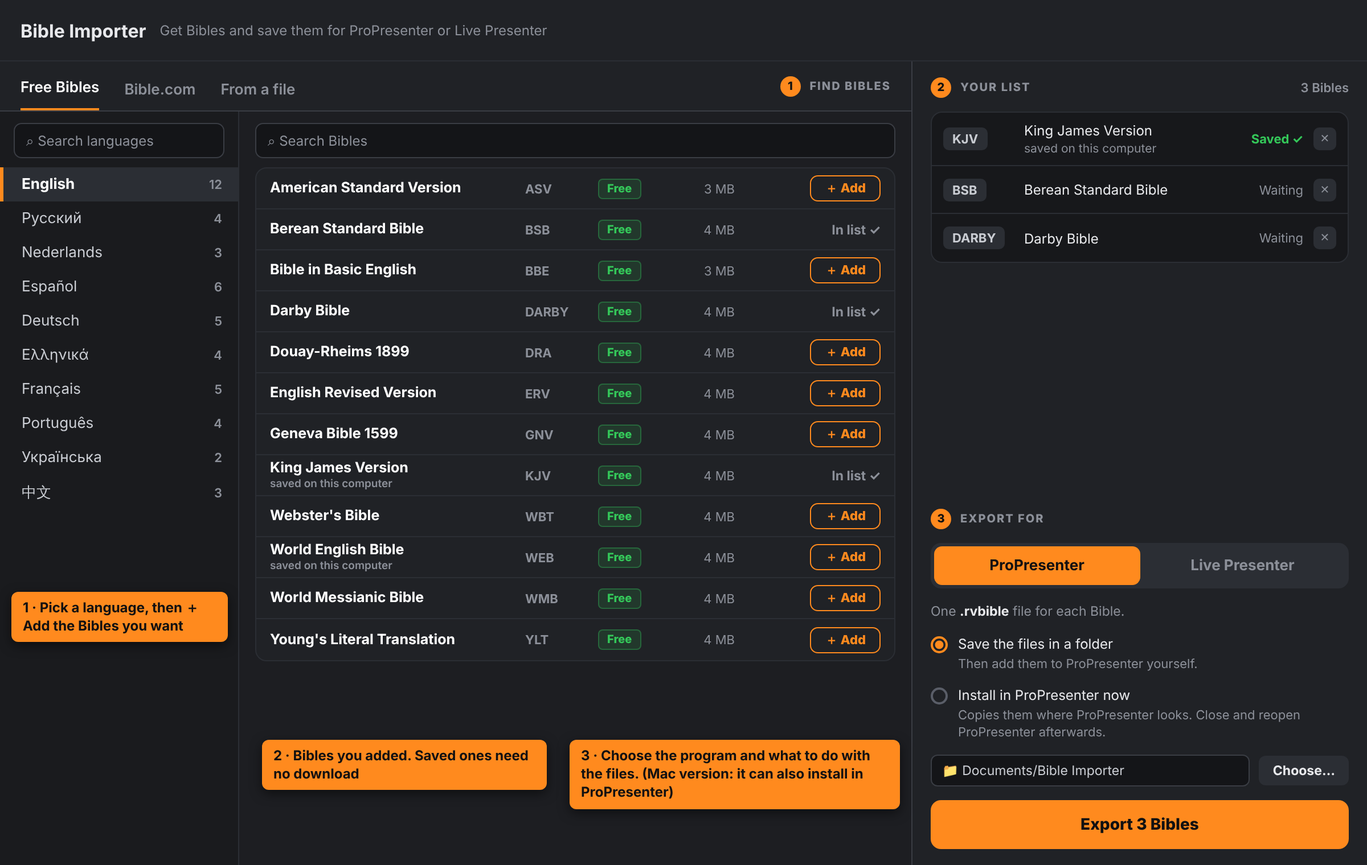
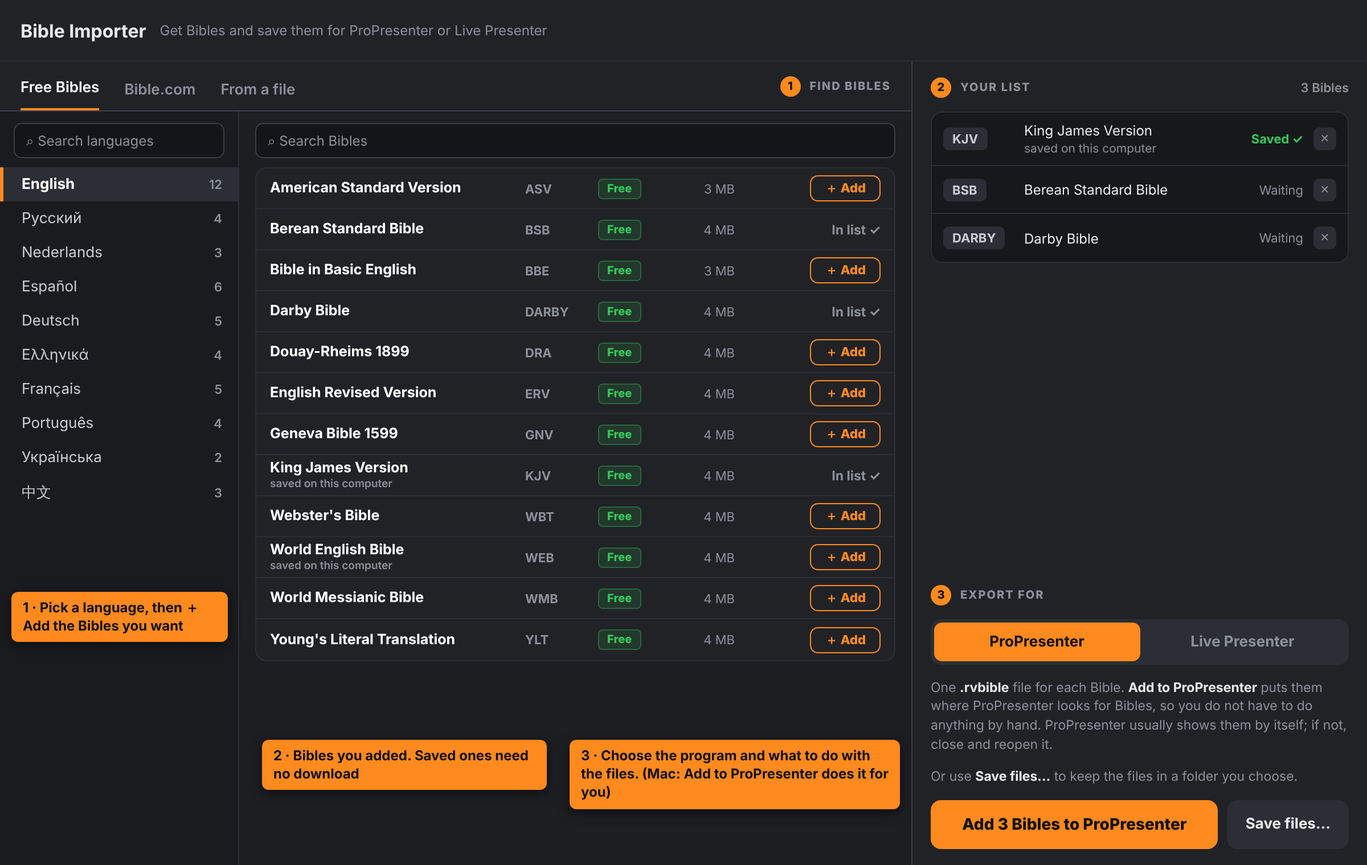
Design draft: Mac gets an Add to ProPresenter button
Claude-Session: https://claude.ai/code/session_01NZBz3ePWXuLfTKEzQoZ6NT

diff --git a/design/08-Done-ProPresenter-on-Mac.html b/design/08-Done-ProPresenter-on-Mac.html
@@ -1,0 +1,72 @@
+<!DOCTYPE html><html><head><meta charset="utf-8"><style>
+*{box-sizing:border-box}body{margin:0;background:#17181B;font-family:Inter,'Segoe UI','Helvetica Neue',Arial,sans-serif;color:#E8E9EC;font-size:12px}
+.win{width:1200px;height:760px;display:flex;flex-direction:column;background:#1d1e22;position:relative;overflow:hidden}
+.hd{height:54px;flex:none;background:#202226;border-bottom:1px solid #2B2E34;display:flex;align-items:center;padding:0 18px;gap:12px}
+.hd h1{margin:0;font-size:16px;font-weight:700}.hd small{color:#8C9099;font-size:12px}
+.main{flex:1;display:flex;min-height:0}
+.find{flex:1;display:flex;flex-direction:column;min-width:0}
+.panel{width:400px;flex:none;background:#202226;border-left:1px solid #3A3D44;display:flex;flex-direction:column;padding:14px 16px;gap:12px}
+.step{display:flex;align-items:center;gap:8px;font-size:10px;font-weight:800;letter-spacing:1px;color:#8C9099}
+.step i{font-style:normal;width:18px;height:18px;border-radius:50%;background:#FF8A1E;color:#111;display:flex;align-items:center;justify-content:center;font-size:10px;letter-spacing:0}
+.step b{margin-left:auto;font-weight:600;letter-spacing:0;color:#8C9099;font-size:11px}
+.tabs{height:44px;flex:none;display:flex;gap:22px;padding:0 18px;border-bottom:1px solid #3A3D44;background:#202226;align-items:flex-end}
+.tabs div{padding-bottom:10px;color:#8C9099;font-weight:600;font-size:13px}.tabs .on{color:#fff;border-bottom:2px solid #FF8A1E}
+.tabs .st{margin-left:auto;padding:0 0 12px;display:flex;gap:8px;align-items:center}
+.amb{flex:none;background:#2a2417;border-bottom:1px solid #5a4a24;color:#e8d9b0;font-size:11.5px;padding:7px 18px}
+.body{flex:1;display:flex;min-height:0}
+.lc{width:210px;flex:none;border-right:1px solid #2B2E34;background:#1a1b1e;padding:10px 0;display:flex;flex-direction:column}
+.fld{margin:0 12px 8px;background:#141518;border:1px solid #3A3D44;border-radius:7px;padding:7px 10px;color:#8C9099;font-size:12px}
+.lg{display:flex;align-items:center;padding:7px 14px 7px 16px;font-size:13px;border-left:3px solid transparent;color:#C9CCD2}
+.lg small{margin-left:auto;color:#8C9099;font-size:11px;font-weight:600}
+.lg.on{border-left-color:#FF8A1E;background:#2B2E34;color:#fff;font-weight:700}
+.rc{flex:1;min-width:0;display:flex;flex-direction:column;padding:10px 14px 0}
+.rc .fld{margin:0 0 8px}
+.lst{background:#202226;border:1px solid #2B2E34;border-radius:10px;overflow:hidden}
+.br{display:grid;grid-template-columns:1fr 54px 70px 40px 118px;gap:10px;align-items:center;padding:0 12px;min-height:36px;border-bottom:1px solid #2B2E34;font-size:12.5px}
+.br:last-child{border-bottom:none}.br b{font-weight:700;color:#fff}
+.sn{color:#8C9099;font-weight:700;font-size:11px}.sz{color:#8C9099;font-size:11px;text-align:right}
+.tg{font-size:10px;font-weight:800;padding:2px 7px;border-radius:4px;justify-self:start}
+.free{background:#34C75922;color:#34C759;border:1px solid #34C75955}.lic{background:#2a2417;color:#e8c46a;border:1px solid #5a4a24}
+.add{justify-self:end;border:1.5px solid #FF8A1E;color:#FF8A1E;font-weight:800;font-size:11px;padding:3px 12px;border-radius:7px}
+.in{justify-self:end;color:#8C9099;font-weight:700;font-size:11.5px}
+.saved{font-size:9.5px;color:#8C9099;font-weight:600;display:block;margin-top:1px}
+.msg{padding:8px 2px;font-size:11.5px;color:#8C9099}
+/* right panel */
+.items{background:#17181B;border:1px solid #2B2E34;border-radius:10px;overflow:hidden}
+.it{display:grid;grid-template-columns:62px 1fr auto 20px;gap:9px;align-items:center;padding:8px 10px;border-bottom:1px solid #2B2E34;min-height:42px}
+.it:last-child{border-bottom:none}.it .ch{font-size:11px;font-weight:700;padding:3px 8px;border-radius:5px;background:#2B2E34;color:#C9CCD2;justify-self:start}
+.it .nm{font-size:12px;line-height:1.25}.it .nm small{display:block;color:#8C9099;font-size:10.5px;margin-top:2px}
+.ok{color:#34C759;font-weight:700;font-size:11px}.wt{color:#8C9099;font-size:11px}.er{color:#FF8A6E;font-weight:700;font-size:11px}
+.x{width:20px;height:20px;border-radius:5px;background:#2B2E34;color:#8C9099;font-size:10px;display:flex;align-items:center;justify-content:center}
+.bar{height:4px;border-radius:2px;background:#3A3D44;overflow:hidden;margin-top:5px}.bar i{display:block;height:100%;background:#FF8A1E}
+.pk{background:#141518;border:1px solid #3A3D44;border-radius:6px;padding:3px 8px;font-size:10.5px;font-weight:600;color:#E8E9EC}
+.seg{display:flex;background:#2B2E34;border-radius:9px;padding:3px}.seg div{flex:1;text-align:center;padding:9px 0;border-radius:7px;color:#8C9099;font-weight:700;font-size:13px}
+.seg .on{background:#FF8A1E;color:#111}
+.hint{color:#8C9099;font-size:11.5px;line-height:1.45}
+.opt{display:flex;gap:9px;align-items:flex-start;font-size:12px;line-height:1.35}
+.rad{width:15px;height:15px;border-radius:50%;border:2px solid #5a5e68;flex:none;margin-top:1px}.rad.on{border-color:#FF8A1E;background:radial-gradient(#FF8A1E 45%,transparent 50%)}
+.opt small{display:block;color:#8C9099;font-size:11px;margin-top:2px}
+.dest{display:flex;gap:8px;align-items:center}.dest .p{flex:1;background:#141518;border:1px solid #3A3D44;border-radius:6px;padding:6px 9px;font-size:11.5px;color:#C9CCD2;white-space:nowrap;overflow:hidden;text-overflow:ellipsis}
+.btn{background:#2B2E34;color:#E8E9EC;border-radius:6px;padding:6px 12px;font-weight:700;font-size:11.5px}
+.go{background:#FF8A1E;color:#111;border-radius:9px;text-align:center;padding:13px 0;font-weight:800;font-size:14px}
+.go2{background:#2B2E34;color:#E8E9EC;border-radius:9px;text-align:center;padding:13px 16px;font-weight:700;font-size:13px}
+.go.dim{background:#2B2E34;color:#8C9099}.go.cancel{background:#2B2E34;color:#E8E9EC}
+.spacer{flex:1}
+.done{background:#173322;border:1px solid #34C75955;border-radius:10px;padding:12px 14px}.done b{color:#34C759;font-size:13px}.done div{color:#C9CCD2;font-size:11.5px;margin-top:4px;line-height:1.45}
+.warn{background:#2a2417;border:1px solid #5a4a24;border-radius:10px;padding:10px 12px;color:#e8d9b0;font-size:11.5px;line-height:1.45}
+.dz{border:2px dashed #3A3D44;border-radius:14px;margin:14px;flex:1;display:flex;flex-direction:column;align-items:center;justify-content:center;gap:10px;text-align:center}
+.dz .ib{background:#2B2E34;border-radius:8px;padding:9px 20px;font-weight:700;font-size:13px}.dz p{margin:0;color:#C9CCD2;font-size:12.5px;line-height:1.5}.dz small{color:#8C9099;font-size:11px}
+.ov{position:absolute;inset:0;background:rgba(10,11,13,.68);z-index:3}
+.dlg{position:absolute;left:300px;top:190px;width:600px;background:#202226;border:1px solid #3A3D44;border-radius:14px;box-shadow:0 20px 60px #000a;z-index:5;padding:20px 22px;display:flex;flex-direction:column;gap:12px}
+.dlg h2{margin:0;font-size:16px}.sel{background:#141518;border:1px solid #3A3D44;border-radius:6px;padding:8px 10px;font-size:12px;margin-left:24px}
+.help{display:flex;gap:8px;align-items:center;color:#E8E9EC;font-size:12px;font-weight:600}
+.q{width:22px;height:22px;border-radius:50%;background:#2B2E34;border:1.5px solid #5a5e68;color:#E8E9EC;font-weight:800;font-size:13px;display:flex;align-items:center;justify-content:center;flex:none}
+.xp{position:absolute;left:190px;top:34px;width:820px;background:#202226;border:1px solid #3A3D44;border-radius:14px;box-shadow:0 20px 60px #000a;z-index:5;display:flex;flex-direction:column}
+.xp .h{display:flex;align-items:center;gap:10px;padding:14px 20px;border-bottom:1px solid #2B2E34}.xp .h b{font-size:16px}.xp .h .x{margin-left:auto}
+.xp .bd{padding:14px 20px 4px;display:flex;flex-direction:column;gap:12px}
+.xp h3{margin:0;font-size:10px;font-weight:800;letter-spacing:1px;color:#8C9099}
+.xp ul,.xp ol{margin:6px 0 0;padding-left:20px;font-size:12.2px;line-height:1.5;color:#C9CCD2}.xp li{margin-bottom:4px}.xp li b{color:#fff}
+.xp code{background:#141518;border:1px solid #3A3D44;border-radius:4px;padding:1px 5px;font-size:11.5px;color:#e8c46a}
+.xp .ft{display:flex;gap:10px;align-items:center;padding:12px 20px 16px;border-top:1px solid #2B2E34;margin-top:6px}
+.nt{position:absolute;background:#FF8A1E;color:#111;font-weight:700;font-size:12px;padding:6px 10px;border-radius:6px;box-shadow:0 3px 10px #0008;max-width:250px;z-index:20;line-height:1.35}
+</style></head><body><div class="win"><div class="hd"><h1>Bible Importer</h1><small>Get Bibles and save them for ProPresenter or Live Presenter</small></div><div class="main"><div class="find"><div class="tabs"><div class="on">Free Bibles</div><div class="">Bible.com</div><div class="">From a file</div><div class="st"><span class="step" style="margin:0"><i>1</i>FIND BIBLES</span></div></div><div class="body"><div class="lc"><div class="fld">⌕ Search languages</div><div class="lg on">English<small>12</small></div><div class="lg">Русский<small>4</small></div><div class="lg">Nederlands<small>3</small></div><div class="lg">Español<small>6</small></div><div class="lg">Deutsch<small>5</small></div><div class="lg">Ελληνικά<small>4</small></div><div class="lg">Français<small>5</small></div><div class="lg">Português<small>4</small></div><div class="lg">Українська<small>2</small></div><div class="lg">中文<small>3</small></div></div><div class="rc"><div class="fld">⌕ Search Bibles</div><div class="lst"><div class="br"><div><b>American Standard Version</b></div><span class="sn">ASV</span><span class="tg free">Free</span><span class="sz">3 MB</span><span class="add">＋ Add</span></div><div class="br"><div><b>Berean Standard Bible</b></div><span class="sn">BSB</span><span class="tg free">Free</span><span class="sz">4 MB</span><span class="in">In list ✓</span></div><div class="br"><div><b>Bible in Basic English</b></div><span class="sn">BBE</span><span class="tg free">Free</span><span class="sz">3 MB</span><span class="add">＋ Add</span></div><div class="br"><div><b>Darby Bible</b></div><span class="sn">DARBY</span><span class="tg free">Free</span><span class="sz">4 MB</span><span class="in">In list ✓</span></div><div class="br"><div><b>Douay-Rheims 1899</b></div><span class="sn">DRA</span><span class="tg free">Free</span><span class="sz">4 MB</span><span class="add">＋ Add</span></div><div class="br"><div><b>English Revised Version</b></div><span class="sn">ERV</span><span class="tg free">Free</span><span class="sz">4 MB</span><span class="add">＋ Add</span></div><div class="br"><div><b>Geneva Bible 1599</b></div><span class="sn">GNV</span><span class="tg free">Free</span><span class="sz">4 MB</span><span class="add">＋ Add</span></div><div class="br"><div><b>King James Version</b><span class="saved">saved on this computer</span></div><span class="sn">KJV</span><span class="tg free">Free</span><span class="sz">4 MB</span><span class="in">In list ✓</span></div><div class="br"><div><b>Webster&#x27;s Bible</b></div><span class="sn">WBT</span><span class="tg free">Free</span><span class="sz">4 MB</span><span class="add">＋ Add</span></div><div class="br"><div><b>World English Bible</b><span class="saved">saved on this computer</span></div><span class="sn">WEB</span><span class="tg free">Free</span><span class="sz">4 MB</span><span class="add">＋ Add</span></div><div class="br"><div><b>World Messianic Bible</b></div><span class="sn">WMB</span><span class="tg free">Free</span><span class="sz">4 MB</span><span class="add">＋ Add</span></div><div class="br"><div><b>Young&#x27;s Literal Translation</b></div><span class="sn">YLT</span><span class="tg free">Free</span><span class="sz">4 MB</span><span class="add">＋ Add</span></div></div><div class="msg"></div></div></div></div><div class="panel"><div class="step"><i>2</i>YOUR LIST<b>3 Bibles</b></div><div class="items"><div class="it"><span class="ch">KJV</span><div class="nm">King James Version<small>added to ProPresenter</small></div><span class="ok">Exported ✓</span><span class="x">✕</span></div><div class="it"><span class="ch">BSB</span><div class="nm">Berean Standard Bible<small>added to ProPresenter</small></div><span class="ok">Exported ✓</span><span class="x">✕</span></div><div class="it"><span class="ch">DARBY</span><div class="nm">Darby Bible<small>added to ProPresenter</small></div><span class="ok">Exported ✓</span><span class="x">✕</span></div></div><div class="done"><b>✓ 3 Bibles added to ProPresenter</b><div>ProPresenter usually shows them by itself.<br>If you do not see them, close and reopen ProPresenter.</div><div style="display:flex;gap:8px;margin-top:10px"><span class="btn">Show the files in Finder</span></div></div><div class="spacer"></div><div class="step"><i>3</i>EXPORT FOR</div><div class="seg"><div class="on">ProPresenter</div><div class="">Live Presenter</div></div><div class="hint">One <b style="color:#E8E9EC">.rvbible</b> file for each Bible. <b style="color:#E8E9EC">Add to ProPresenter</b> puts them where ProPresenter looks for Bibles, so you do not have to do anything by hand. ProPresenter usually shows them by itself; if not, close and reopen it.</div><div class="hint">Or use <b style="color:#E8E9EC">Save files…</b> to keep the files in a folder you choose.</div><div style="display:flex;gap:8px"><div class="go dim" style="flex:1">Add 3 Bibles to ProPresenter</div><div class="go2">Save files…</div></div></div></div><div class="nt" style="left:450px;top:640px;max-width:260px">After adding on Mac: nothing more to do</div></div></body></html>

diff --git a/design/01-Main-Free-ProPresenter.html b/design/01-Main-Free-ProPresenter.html
@@ -49,6 +49,7 @@
 .dest{display:flex;gap:8px;align-items:center}.dest .p{flex:1;background:#141518;border:1px solid #3A3D44;border-radius:6px;padding:6px 9px;font-size:11.5px;color:#C9CCD2;white-space:nowrap;overflow:hidden;text-overflow:ellipsis}
 .btn{background:#2B2E34;color:#E8E9EC;border-radius:6px;padding:6px 12px;font-weight:700;font-size:11.5px}
 .go{background:#FF8A1E;color:#111;border-radius:9px;text-align:center;padding:13px 0;font-weight:800;font-size:14px}
+.go2{background:#2B2E34;color:#E8E9EC;border-radius:9px;text-align:center;padding:13px 16px;font-weight:700;font-size:13px}
 .go.dim{background:#2B2E34;color:#8C9099}.go.cancel{background:#2B2E34;color:#E8E9EC}
 .spacer{flex:1}
 .done{background:#173322;border:1px solid #34C75955;border-radius:10px;padding:12px 14px}.done b{color:#34C759;font-size:13px}.done div{color:#C9CCD2;font-size:11.5px;margin-top:4px;line-height:1.45}
@@ -68,4 +69,4 @@
 .xp code{background:#141518;border:1px solid #3A3D44;border-radius:4px;padding:1px 5px;font-size:11.5px;color:#e8c46a}
 .xp .ft{display:flex;gap:10px;align-items:center;padding:12px 20px 16px;border-top:1px solid #2B2E34;margin-top:6px}
 .nt{position:absolute;background:#FF8A1E;color:#111;font-weight:700;font-size:12px;padding:6px 10px;border-radius:6px;box-shadow:0 3px 10px #0008;max-width:250px;z-index:20;line-height:1.35}
-</style></head><body><div class="win"><div class="hd"><h1>Bible Importer</h1><small>Get Bibles and save them for ProPresenter or Live Presenter</small></div><div class="main"><div class="find"><div class="tabs"><div class="on">Free Bibles</div><div class="">Bible.com</div><div class="">From a file</div><div class="st"><span class="step" style="margin:0"><i>1</i>FIND BIBLES</span></div></div><div class="body"><div class="lc"><div class="fld">⌕ Search languages</div><div class="lg on">English<small>12</small></div><div class="lg">Русский<small>4</small></div><div class="lg">Nederlands<small>3</small></div><div class="lg">Español<small>6</small></div><div class="lg">Deutsch<small>5</small></div><div class="lg">Ελληνικά<small>4</small></div><div class="lg">Français<small>5</small></div><div class="lg">Português<small>4</small></div><div class="lg">Українська<small>2</small></div><div class="lg">中文<small>3</small></div></div><div class="rc"><div class="fld">⌕ Search Bibles</div><div class="lst"><div class="br"><div><b>American Standard Version</b></div><span class="sn">ASV</span><span class="tg free">Free</span><span class="sz">3 MB</span><span class="add">＋ Add</span></div><div class="br"><div><b>Berean Standard Bible</b></div><span class="sn">BSB</span><span class="tg free">Free</span><span class="sz">4 MB</span><span class="in">In list ✓</span></div><div class="br"><div><b>Bible in Basic English</b></div><span class="sn">BBE</span><span class="tg free">Free</span><span class="sz">3 MB</span><span class="add">＋ Add</span></div><div class="br"><div><b>Darby Bible</b></div><span class="sn">DARBY</span><span class="tg free">Free</span><span class="sz">4 MB</span><span class="in">In list ✓</span></div><div class="br"><div><b>Douay-Rheims 1899</b></div><span class="sn">DRA</span><span class="tg free">Free</span><span class="sz">4 MB</span><span class="add">＋ Add</span></div><div class="br"><div><b>English Revised Version</b></div><span class="sn">ERV</span><span class="tg free">Free</span><span class="sz">4 MB</span><span class="add">＋ Add</span></div><div class="br"><div><b>Geneva Bible 1599</b></div><span class="sn">GNV</span><span class="tg free">Free</span><span class="sz">4 MB</span><span class="add">＋ Add</span></div><div class="br"><div><b>King James Version</b><span class="saved">saved on this computer</span></div><span class="sn">KJV</span><span class="tg free">Free</span><span class="sz">4 MB</span><span class="in">In list ✓</span></div><div class="br"><div><b>Webster&#x27;s Bible</b></div><span class="sn">WBT</span><span class="tg free">Free</span><span class="sz">4 MB</span><span class="add">＋ Add</span></div><div class="br"><div><b>World English Bible</b><span class="saved">saved on this computer</span></div><span class="sn">WEB</span><span class="tg free">Free</span><span class="sz">4 MB</span><span class="add">＋ Add</span></div><div class="br"><div><b>World Messianic Bible</b></div><span class="sn">WMB</span><span class="tg free">Free</span><span class="sz">4 MB</span><span class="add">＋ Add</span></div><div class="br"><div><b>Young&#x27;s Literal Translation</b></div><span class="sn">YLT</span><span class="tg free">Free</span><span class="sz">4 MB</span><span class="add">＋ Add</span></div></div><div class="msg"></div></div></div></div><div class="panel"><div class="step"><i>2</i>YOUR LIST<b>3 Bibles</b></div><div class="items"><div class="it"><span class="ch">KJV</span><div class="nm">King James Version<small>saved on this computer</small></div><span class="ok">Saved ✓</span><span class="x">✕</span></div><div class="it"><span class="ch">BSB</span><div class="nm">Berean Standard Bible</div><span class="wt">Waiting</span><span class="x">✕</span></div><div class="it"><span class="ch">DARBY</span><div class="nm">Darby Bible</div><span class="wt">Waiting</span><span class="x">✕</span></div></div><div class="spacer"></div><div class="step"><i>3</i>EXPORT FOR</div><div class="seg"><div class="on">ProPresenter</div><div class="">Live Presenter</div></div><div class="hint">One <b style="color:#E8E9EC">.rvbible</b> file for each Bible.</div><div class="opt"><span class="rad on"></span><div>Save the files in a folder<small>Then add them to ProPresenter yourself.</small></div></div><div class="opt"><span class="rad "></span><div>Install in ProPresenter now<small>Copies them where ProPresenter looks. Close and reopen ProPresenter afterwards.</small></div></div><div class="dest"><div class="p">📁 Documents/Bible Importer</div><div class="btn">Choose…</div></div><div class="go">Export 3 Bibles</div></div></div><div class="nt" style="left:10px;top:520px;max-width:190px">1 · Pick a language, then ＋ Add the Bibles you want</div><div class="nt" style="left:230px;top:650px;max-width:250px">2 · Bibles you added. Saved ones need no download</div><div class="nt" style="left:500px;top:650px;max-width:290px">3 · Choose the program and what to do with the files. (Mac version: it can also install in ProPresenter)</div></div></body></html>
+</style></head><body><div class="win"><div class="hd"><h1>Bible Importer</h1><small>Get Bibles and save them for ProPresenter or Live Presenter</small></div><div class="main"><div class="find"><div class="tabs"><div class="on">Free Bibles</div><div class="">Bible.com</div><div class="">From a file</div><div class="st"><span class="step" style="margin:0"><i>1</i>FIND BIBLES</span></div></div><div class="body"><div class="lc"><div class="fld">⌕ Search languages</div><div class="lg on">English<small>12</small></div><div class="lg">Русский<small>4</small></div><div class="lg">Nederlands<small>3</small></div><div class="lg">Español<small>6</small></div><div class="lg">Deutsch<small>5</small></div><div class="lg">Ελληνικά<small>4</small></div><div class="lg">Français<small>5</small></div><div class="lg">Português<small>4</small></div><div class="lg">Українська<small>2</small></div><div class="lg">中文<small>3</small></div></div><div class="rc"><div class="fld">⌕ Search Bibles</div><div class="lst"><div class="br"><div><b>American Standard Version</b></div><span class="sn">ASV</span><span class="tg free">Free</span><span class="sz">3 MB</span><span class="add">＋ Add</span></div><div class="br"><div><b>Berean Standard Bible</b></div><span class="sn">BSB</span><span class="tg free">Free</span><span class="sz">4 MB</span><span class="in">In list ✓</span></div><div class="br"><div><b>Bible in Basic English</b></div><span class="sn">BBE</span><span class="tg free">Free</span><span class="sz">3 MB</span><span class="add">＋ Add</span></div><div class="br"><div><b>Darby Bible</b></div><span class="sn">DARBY</span><span class="tg free">Free</span><span class="sz">4 MB</span><span class="in">In list ✓</span></div><div class="br"><div><b>Douay-Rheims 1899</b></div><span class="sn">DRA</span><span class="tg free">Free</span><span class="sz">4 MB</span><span class="add">＋ Add</span></div><div class="br"><div><b>English Revised Version</b></div><span class="sn">ERV</span><span class="tg free">Free</span><span class="sz">4 MB</span><span class="add">＋ Add</span></div><div class="br"><div><b>Geneva Bible 1599</b></div><span class="sn">GNV</span><span class="tg free">Free</span><span class="sz">4 MB</span><span class="add">＋ Add</span></div><div class="br"><div><b>King James Version</b><span class="saved">saved on this computer</span></div><span class="sn">KJV</span><span class="tg free">Free</span><span class="sz">4 MB</span><span class="in">In list ✓</span></div><div class="br"><div><b>Webster&#x27;s Bible</b></div><span class="sn">WBT</span><span class="tg free">Free</span><span class="sz">4 MB</span><span class="add">＋ Add</span></div><div class="br"><div><b>World English Bible</b><span class="saved">saved on this computer</span></div><span class="sn">WEB</span><span class="tg free">Free</span><span class="sz">4 MB</span><span class="add">＋ Add</span></div><div class="br"><div><b>World Messianic Bible</b></div><span class="sn">WMB</span><span class="tg free">Free</span><span class="sz">4 MB</span><span class="add">＋ Add</span></div><div class="br"><div><b>Young&#x27;s Literal Translation</b></div><span class="sn">YLT</span><span class="tg free">Free</span><span class="sz">4 MB</span><span class="add">＋ Add</span></div></div><div class="msg"></div></div></div></div><div class="panel"><div class="step"><i>2</i>YOUR LIST<b>3 Bibles</b></div><div class="items"><div class="it"><span class="ch">KJV</span><div class="nm">King James Version<small>saved on this computer</small></div><span class="ok">Saved ✓</span><span class="x">✕</span></div><div class="it"><span class="ch">BSB</span><div class="nm">Berean Standard Bible</div><span class="wt">Waiting</span><span class="x">✕</span></div><div class="it"><span class="ch">DARBY</span><div class="nm">Darby Bible</div><span class="wt">Waiting</span><span class="x">✕</span></div></div><div class="spacer"></div><div class="step"><i>3</i>EXPORT FOR</div><div class="seg"><div class="on">ProPresenter</div><div class="">Live Presenter</div></div><div class="hint">One <b style="color:#E8E9EC">.rvbible</b> file for each Bible. <b style="color:#E8E9EC">Add to ProPresenter</b> puts them where ProPresenter looks for Bibles, so you do not have to do anything by hand. ProPresenter usually shows them by itself; if not, close and reopen it.</div><div class="hint">Or use <b style="color:#E8E9EC">Save files…</b> to keep the files in a folder you choose.</div><div style="display:flex;gap:8px"><div class="go" style="flex:1">Add 3 Bibles to ProPresenter</div><div class="go2">Save files…</div></div></div></div><div class="nt" style="left:10px;top:520px;max-width:190px">1 · Pick a language, then ＋ Add the Bibles you want</div><div class="nt" style="left:230px;top:650px;max-width:250px">2 · Bibles you added. Saved ones need no download</div><div class="nt" style="left:500px;top:650px;max-width:290px">3 · Choose the program and what to do with the files. (Mac: Add to ProPresenter does it for you)</div></div></body></html>

diff --git a/design/05-From-a-file.html b/design/05-From-a-file.html
@@ -49,6 +49,7 @@
 .dest{display:flex;gap:8px;align-items:center}.dest .p{flex:1;background:#141518;border:1px solid #3A3D44;border-radius:6px;padding:6px 9px;font-size:11.5px;color:#C9CCD2;white-space:nowrap;overflow:hidden;text-overflow:ellipsis}
 .btn{background:#2B2E34;color:#E8E9EC;border-radius:6px;padding:6px 12px;font-weight:700;font-size:11.5px}
 .go{background:#FF8A1E;color:#111;border-radius:9px;text-align:center;padding:13px 0;font-weight:800;font-size:14px}
+.go2{background:#2B2E34;color:#E8E9EC;border-radius:9px;text-align:center;padding:13px 16px;font-weight:700;font-size:13px}
 .go.dim{background:#2B2E34;color:#8C9099}.go.cancel{background:#2B2E34;color:#E8E9EC}
 .spacer{flex:1}
 .done{background:#173322;border:1px solid #34C75955;border-radius:10px;padding:12px 14px}.done b{color:#34C759;font-size:13px}.done div{color:#C9CCD2;font-size:11.5px;margin-top:4px;line-height:1.45}
@@ -68,4 +69,4 @@
 .xp code{background:#141518;border:1px solid #3A3D44;border-radius:4px;padding:1px 5px;font-size:11.5px;color:#e8c46a}
 .xp .ft{display:flex;gap:10px;align-items:center;padding:12px 20px 16px;border-top:1px solid #2B2E34;margin-top:6px}
 .nt{position:absolute;background:#FF8A1E;color:#111;font-weight:700;font-size:12px;padding:6px 10px;border-radius:6px;box-shadow:0 3px 10px #0008;max-width:250px;z-index:20;line-height:1.35}
-</style></head><body><div class="win"><div class="hd"><h1>Bible Importer</h1><small>Get Bibles and save them for ProPresenter or Live Presenter</small></div><div class="main"><div class="find"><div class="tabs"><div class="">Free Bibles</div><div class="">Bible.com</div><div class="on">From a file</div><div class="st"><span class="step" style="margin:0"><i>1</i>FIND BIBLES</span></div></div><div class="body"><div class="dz"><div class="ib">Choose a file…</div><p>Drop a Bible file here.<br>Only add Bibles you have the right to use.</p><small>Zefania · OSIS · USX · USFM · USFX · ProPresenter .rvbible · Live Presenter / getBible JSON</small></div></div></div><div class="panel"><div class="step"><i>2</i>YOUR LIST<b>1 Bible</b></div><div class="items"><div class="it"><span class="ch">CB</span><div class="nm">Church Bible (cb.json)</div><span class="ok">Ready ✓</span><span class="x">✕</span></div></div><div class="spacer"></div><div class="step"><i>3</i>EXPORT FOR</div><div class="seg"><div class="on">ProPresenter</div><div class="">Live Presenter</div></div><div class="hint">One <b style="color:#E8E9EC">.rvbible</b> file for each Bible.</div><div class="opt"><span class="rad on"></span><div>Save the files in a folder<small>Then add them to ProPresenter yourself.</small></div></div><div class="opt"><span class="rad "></span><div>Install in ProPresenter now<small>Copies them where ProPresenter looks. Close and reopen ProPresenter afterwards.</small></div></div><div class="dest"><div class="p">📁 Documents/Bible Importer</div><div class="btn">Choose…</div></div><div class="go">Export 1 Bible</div></div></div><div class="nt" style="left:260px;top:580px;max-width:330px">A Bible you already have in one format can be turned into the other (for example a .rvbible into Live Presenter JSON)</div></div></body></html>
+</style></head><body><div class="win"><div class="hd"><h1>Bible Importer</h1><small>Get Bibles and save them for ProPresenter or Live Presenter</small></div><div class="main"><div class="find"><div class="tabs"><div class="">Free Bibles</div><div class="">Bible.com</div><div class="on">From a file</div><div class="st"><span class="step" style="margin:0"><i>1</i>FIND BIBLES</span></div></div><div class="body"><div class="dz"><div class="ib">Choose a file…</div><p>Drop a Bible file here.<br>Only add Bibles you have the right to use.</p><small>Zefania · OSIS · USX · USFM · USFX · ProPresenter .rvbible · Live Presenter / getBible JSON</small></div></div></div><div class="panel"><div class="step"><i>2</i>YOUR LIST<b>1 Bible</b></div><div class="items"><div class="it"><span class="ch">CB</span><div class="nm">Church Bible (cb.json)</div><span class="ok">Ready ✓</span><span class="x">✕</span></div></div><div class="spacer"></div><div class="step"><i>3</i>EXPORT FOR</div><div class="seg"><div class="on">ProPresenter</div><div class="">Live Presenter</div></div><div class="hint">One <b style="color:#E8E9EC">.rvbible</b> file for each Bible. <b style="color:#E8E9EC">Add to ProPresenter</b> puts them where ProPresenter looks for Bibles, so you do not have to do anything by hand. ProPresenter usually shows them by itself; if not, close and reopen it.</div><div class="hint">Or use <b style="color:#E8E9EC">Save files…</b> to keep the files in a folder you choose.</div><div style="display:flex;gap:8px"><div class="go" style="flex:1">Add 1 Bible to ProPresenter</div><div class="go2">Save files…</div></div></div></div><div class="nt" style="left:260px;top:580px;max-width:330px">A Bible you already have in one format can be turned into the other (for example a .rvbible into Live Presenter JSON)</div></div></body></html>

diff --git a/design/01W-Main-ProPresenter-on-Windows.html b/design/01W-Main-ProPresenter-on-Windows.html
@@ -49,6 +49,7 @@
 .dest{display:flex;gap:8px;align-items:center}.dest .p{flex:1;background:#141518;border:1px solid #3A3D44;border-radius:6px;padding:6px 9px;font-size:11.5px;color:#C9CCD2;white-space:nowrap;overflow:hidden;text-overflow:ellipsis}
 .btn{background:#2B2E34;color:#E8E9EC;border-radius:6px;padding:6px 12px;font-weight:700;font-size:11.5px}
 .go{background:#FF8A1E;color:#111;border-radius:9px;text-align:center;padding:13px 0;font-weight:800;font-size:14px}
+.go2{background:#2B2E34;color:#E8E9EC;border-radius:9px;text-align:center;padding:13px 16px;font-weight:700;font-size:13px}
 .go.dim{background:#2B2E34;color:#8C9099}.go.cancel{background:#2B2E34;color:#E8E9EC}
 .spacer{flex:1}
 .done{background:#173322;border:1px solid #34C75955;border-radius:10px;padding:12px 14px}.done b{color:#34C759;font-size:13px}.done div{color:#C9CCD2;font-size:11.5px;margin-top:4px;line-height:1.45}

diff --git a/design/02-Main-BibleCom-LivePresenter.html b/design/02-Main-BibleCom-LivePresenter.html
@@ -49,6 +49,7 @@
 .dest{display:flex;gap:8px;align-items:center}.dest .p{flex:1;background:#141518;border:1px solid #3A3D44;border-radius:6px;padding:6px 9px;font-size:11.5px;color:#C9CCD2;white-space:nowrap;overflow:hidden;text-overflow:ellipsis}
 .btn{background:#2B2E34;color:#E8E9EC;border-radius:6px;padding:6px 12px;font-weight:700;font-size:11.5px}
 .go{background:#FF8A1E;color:#111;border-radius:9px;text-align:center;padding:13px 0;font-weight:800;font-size:14px}
+.go2{background:#2B2E34;color:#E8E9EC;border-radius:9px;text-align:center;padding:13px 16px;font-weight:700;font-size:13px}
 .go.dim{background:#2B2E34;color:#8C9099}.go.cancel{background:#2B2E34;color:#E8E9EC}
 .spacer{flex:1}
 .done{background:#173322;border:1px solid #34C75955;border-radius:10px;padding:12px 14px}.done b{color:#34C759;font-size:13px}.done div{color:#C9CCD2;font-size:11.5px;margin-top:4px;line-height:1.45}

diff --git a/design/03-Exporting.html b/design/03-Exporting.html
@@ -49,6 +49,7 @@
 .dest{display:flex;gap:8px;align-items:center}.dest .p{flex:1;background:#141518;border:1px solid #3A3D44;border-radius:6px;padding:6px 9px;font-size:11.5px;color:#C9CCD2;white-space:nowrap;overflow:hidden;text-overflow:ellipsis}
 .btn{background:#2B2E34;color:#E8E9EC;border-radius:6px;padding:6px 12px;font-weight:700;font-size:11.5px}
 .go{background:#FF8A1E;color:#111;border-radius:9px;text-align:center;padding:13px 0;font-weight:800;font-size:14px}
+.go2{background:#2B2E34;color:#E8E9EC;border-radius:9px;text-align:center;padding:13px 16px;font-weight:700;font-size:13px}
 .go.dim{background:#2B2E34;color:#8C9099}.go.cancel{background:#2B2E34;color:#E8E9EC}
 .spacer{flex:1}
 .done{background:#173322;border:1px solid #34C75955;border-radius:10px;padding:12px 14px}.done b{color:#34C759;font-size:13px}.done div{color:#C9CCD2;font-size:11.5px;margin-top:4px;line-height:1.45}

diff --git a/design/04-Done.html b/design/04-Done.html
@@ -49,6 +49,7 @@
 .dest{display:flex;gap:8px;align-items:center}.dest .p{flex:1;background:#141518;border:1px solid #3A3D44;border-radius:6px;padding:6px 9px;font-size:11.5px;color:#C9CCD2;white-space:nowrap;overflow:hidden;text-overflow:ellipsis}
 .btn{background:#2B2E34;color:#E8E9EC;border-radius:6px;padding:6px 12px;font-weight:700;font-size:11.5px}
 .go{background:#FF8A1E;color:#111;border-radius:9px;text-align:center;padding:13px 0;font-weight:800;font-size:14px}
+.go2{background:#2B2E34;color:#E8E9EC;border-radius:9px;text-align:center;padding:13px 16px;font-weight:700;font-size:13px}
 .go.dim{background:#2B2E34;color:#8C9099}.go.cancel{background:#2B2E34;color:#E8E9EC}
 .spacer{flex:1}
 .done{background:#173322;border:1px solid #34C75955;border-radius:10px;padding:12px 14px}.done b{color:#34C759;font-size:13px}.done div{color:#C9CCD2;font-size:11.5px;margin-top:4px;line-height:1.45}

diff --git a/design/06-Windows-explanation.html b/design/06-Windows-explanation.html
@@ -49,6 +49,7 @@
 .dest{display:flex;gap:8px;align-items:center}.dest .p{flex:1;background:#141518;border:1px solid #3A3D44;border-radius:6px;padding:6px 9px;font-size:11.5px;color:#C9CCD2;white-space:nowrap;overflow:hidden;text-overflow:ellipsis}
 .btn{background:#2B2E34;color:#E8E9EC;border-radius:6px;padding:6px 12px;font-weight:700;font-size:11.5px}
 .go{background:#FF8A1E;color:#111;border-radius:9px;text-align:center;padding:13px 0;font-weight:800;font-size:14px}
+.go2{background:#2B2E34;color:#E8E9EC;border-radius:9px;text-align:center;padding:13px 16px;font-weight:700;font-size:13px}
 .go.dim{background:#2B2E34;color:#8C9099}.go.cancel{background:#2B2E34;color:#E8E9EC}
 .spacer{flex:1}
 .done{background:#173322;border:1px solid #34C75955;border-radius:10px;padding:12px 14px}.done b{color:#34C759;font-size:13px}.done div{color:#C9CCD2;font-size:11.5px;margin-top:4px;line-height:1.45}

diff --git a/design/07-Done-ProPresenter-on-Windows.html b/design/07-Done-ProPresenter-on-Windows.html
@@ -49,6 +49,7 @@
 .dest{display:flex;gap:8px;align-items:center}.dest .p{flex:1;background:#141518;border:1px solid #3A3D44;border-radius:6px;padding:6px 9px;font-size:11.5px;color:#C9CCD2;white-space:nowrap;overflow:hidden;text-overflow:ellipsis}
 .btn{background:#2B2E34;color:#E8E9EC;border-radius:6px;padding:6px 12px;font-weight:700;font-size:11.5px}
 .go{background:#FF8A1E;color:#111;border-radius:9px;text-align:center;padding:13px 0;font-weight:800;font-size:14px}
+.go2{background:#2B2E34;color:#E8E9EC;border-radius:9px;text-align:center;padding:13px 16px;font-weight:700;font-size:13px}
 .go.dim{background:#2B2E34;color:#8C9099}.go.cancel{background:#2B2E34;color:#E8E9EC}
 .spacer{flex:1}
 .done{background:#173322;border:1px solid #34C75955;border-radius:10px;padding:12px 14px}.done b{color:#34C759;font-size:13px}.done div{color:#C9CCD2;font-size:11.5px;margin-top:4px;line-height:1.45}
